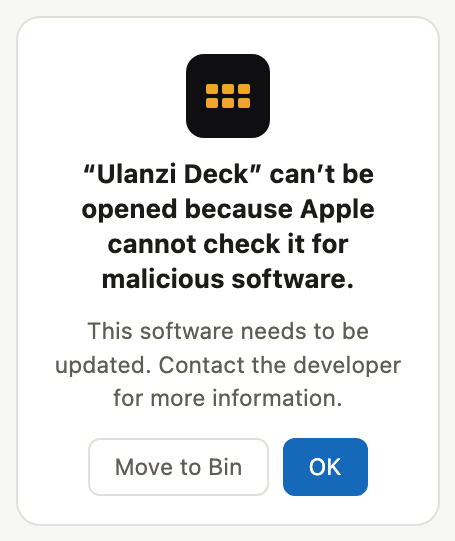
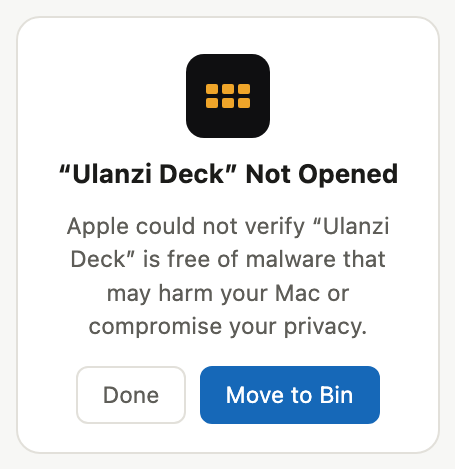
The macOS warning, in the words macOS actually uses
It does not say "can't be opened because Apple cannot check it" any more, and
the safe button is not called OK. On current macOS it is titled "Ulanzi Deck"
Not Opened, the text is about Apple not being able to verify it is free of
malware, and the two buttons are Done and Move to Bin — with Move to Bin as
the blue default, which is the one nobody should press.

So the picture and the steps say Done, and say not to take the blue one.

diff --git a/docs/index.html b/docs/index.html
@@ -349,13 +349,13 @@ figcaption{font-family:var(--mono);font-size:11px;color:var(--ink-faint);padding
       <div class="pair">
         <div class="mac-dialog">
           <span class="mk"><s></s><s></s><s></s><s></s><s></s><s></s></span>
-          <b>“Ulanzi Deck” can’t be opened because Apple cannot check it for malicious software.</b>
-          <span>This software needs to be updated. Contact the developer for more information.</span>
-          <span class="btns"><i>Move to Bin</i><i class="p">OK</i></span>
+          <b>“Ulanzi Deck” Not Opened</b>
+          <span>Apple could not verify “Ulanzi Deck” is free of malware that may harm your Mac or compromise your privacy.</span>
+          <span class="btns"><i>Done</i><i class="p">Move to Bin</i></span>
         </div>
         <div class="fix">
           <ol>
-            <li>Press <strong>OK</strong>. Do not move it to the bin.</li>
+            <li>Press <strong>Done</strong>. <strong>Not</strong> Move to Bin, however blue it is.</li>
             <li>Open <strong>System Settings → Privacy &amp; Security</strong>.</li>
             <li>Scroll down to Security. There is a line about Ulanzi Deck being blocked.</li>
             <li>Press <strong>Open Anyway</strong>.</li>

diff --git a/README.md b/README.md
@@ -147,9 +147,9 @@ it, change it, or build the app yourself rather than download it.
 
 ### macOS will stop you the first time. Here is how to get past it.
 
-<img src="images/guide/fig-gate-dialog.png" alt="The macOS warning: Ulanzi Deck can't be opened because Apple cannot check it for malicious software" width="320">
+<img src="images/guide/fig-gate-dialog.png" alt="The macOS warning: Ulanzi Deck Not Opened, with Done and Move to Bin" width="320">
 
-1. Press **OK**. Do not move it to the bin.
+1. Press **Done**. **Not** Move to Bin, however blue that button is.
 2. Open **System Settings → Privacy & Security**.
 3. Scroll down to Security. There is a line about Ulanzi Deck being blocked.
 4. Press **Open Anyway**.
